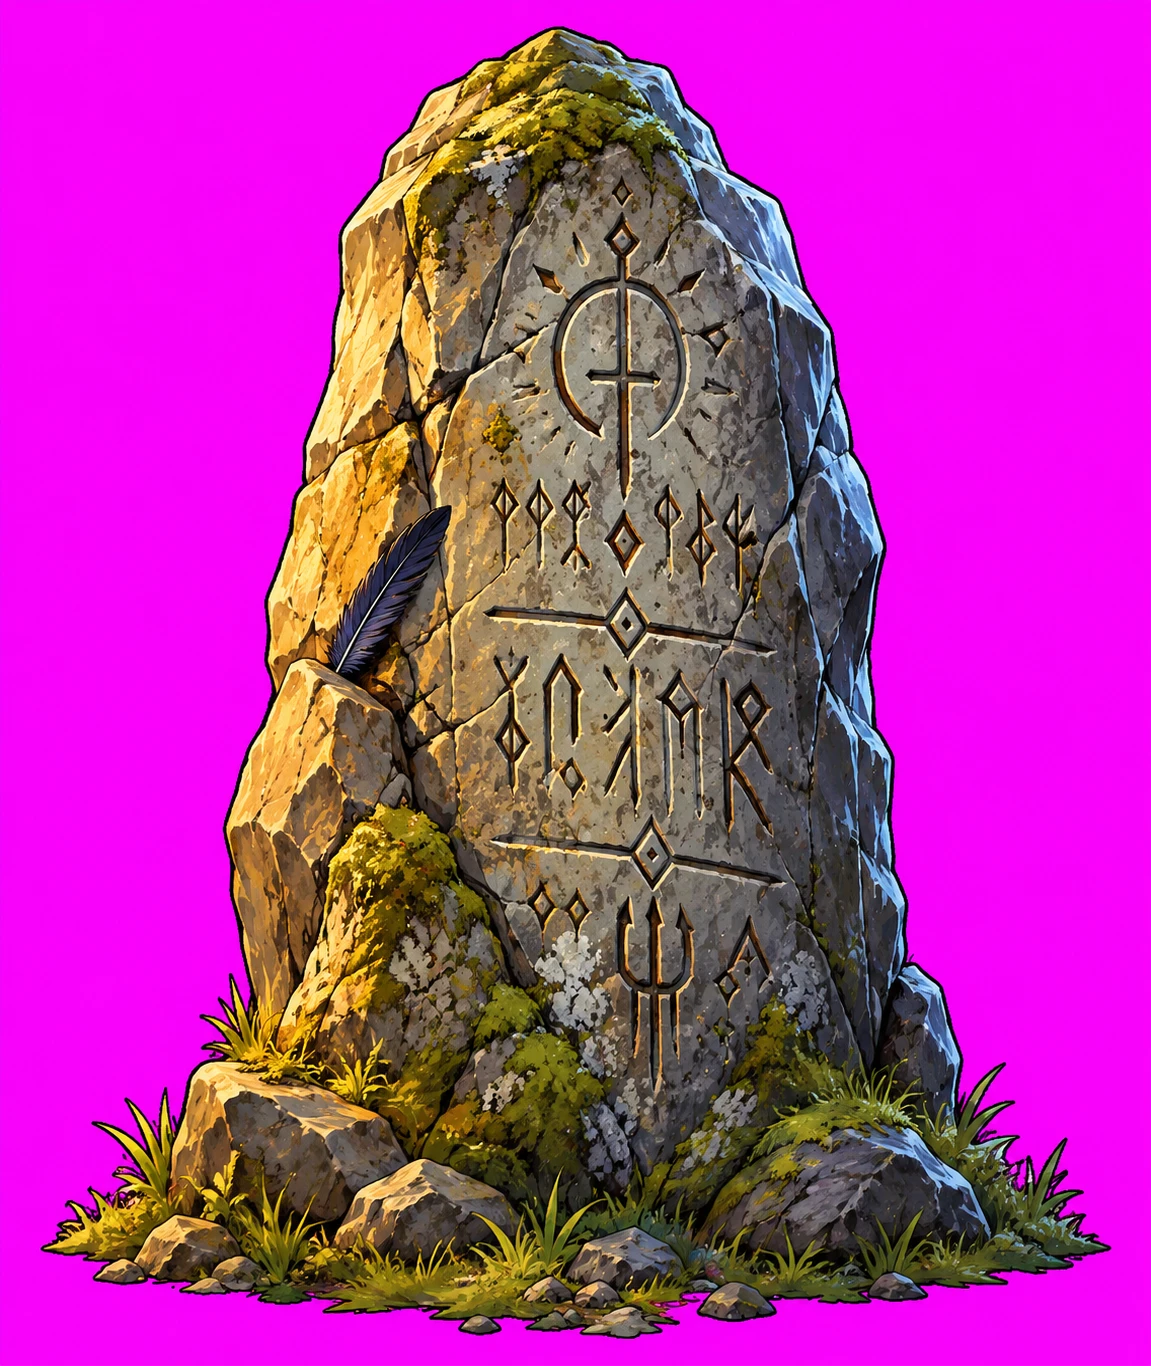
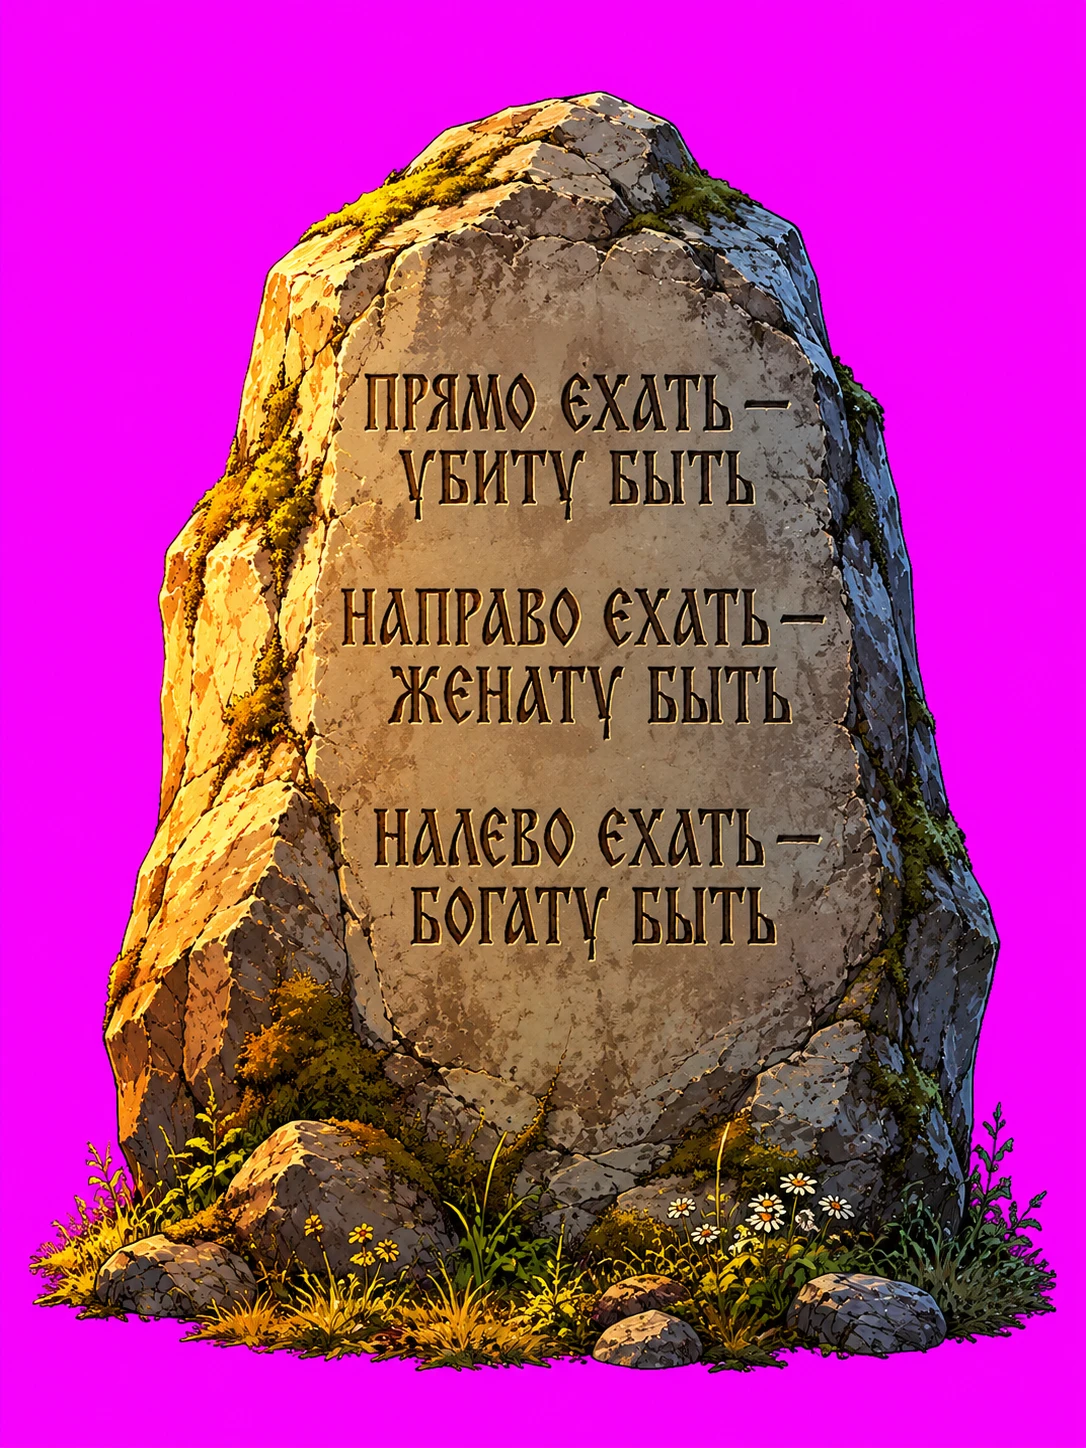
Битва легенд 3.7.6: камень на перепутье с надписью из былины, крупнее
Claude-Session: https://claude.ai/code/session_01XXCj5USGvqBwGBQWYjNQyR

diff --git a/bitva-legend/tools/process_arena_art.py b/bitva-legend/tools/process_arena_art.py
@@ -31,7 +31,7 @@ SKY_SIZE = (1980, 1080)
 # Лес шире слоя: в игре он рисуется крупнее, края уходят за кадр (см. ArenaScenery.FOREST_HEIGHT).
 STRIP_WIDTH = {"mountains": 5400, "forest": 6000, "ground": 4000, "foreground": 4432}
 MOON_SIZE = 320
-STONE_HEIGHT = 300
+STONE_HEIGHT = 520  # 2× высоты в игре (STONE_H в arena_scenery.gd) — надпись читается
 STITCH_OVERLAP = {"ground": 0.12, "mountains": 0.06}  # перетекание соседних панелей сплошных полос
 CLOUD_MAX_WIDTH = 720
 RAVEN_HEIGHT = 220

diff --git a/bitva-legend/docs/ART_ARENA.md b/bitva-legend/docs/ART_ARENA.md
@@ -216,4 +216,4 @@ Edit task. Image 1 is the approved model sheet of ILYA MUROMETS, image 2 is the 
 ```
 
 **Статус партии 3.8:** ground_1–3 ✅ в игре (3.7.5): панели склеены с плавным перетеканием (12%), земля рисуется в своих пропорциях
-шире арены (×1.3), перекрёсток — по центру за камнем. Ждём: foreground_1–3, mountains_1–3, stone, menu/title.
+шире арены (×1.3), перекрёсток — по центру за камнем. stone ✅ (3.7.6): камень с надписью из былины, в игре 260 px (боец — 300). Ждём: foreground_1–3, mountains_1–3, menu/title.
